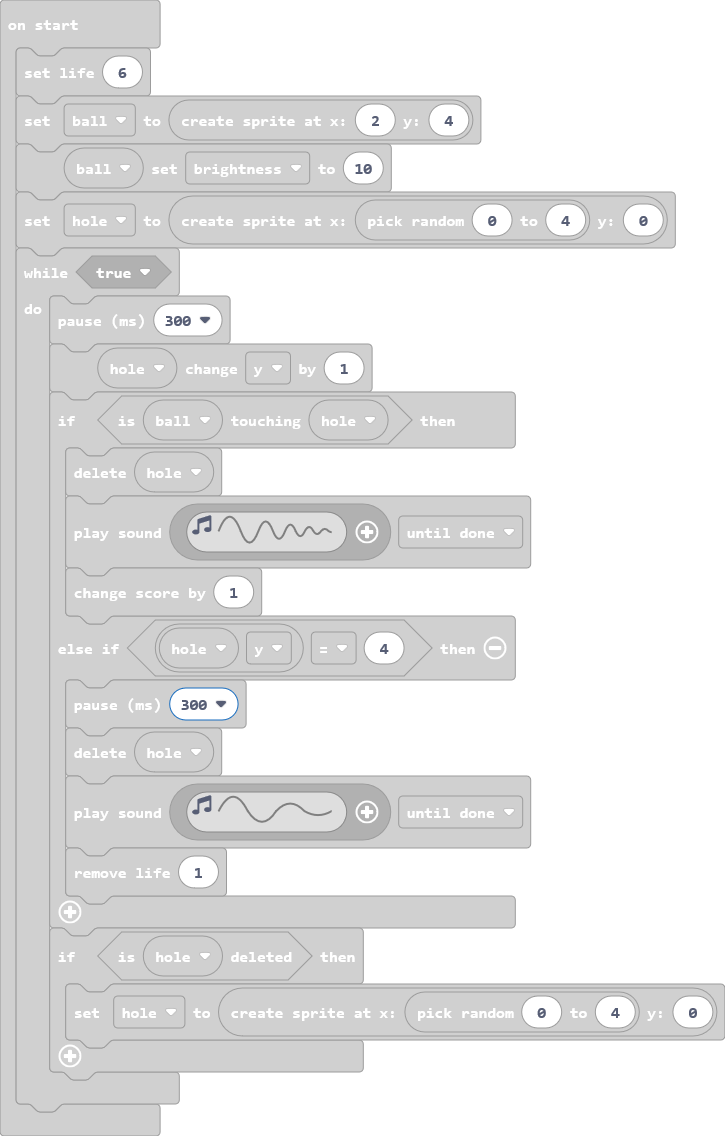
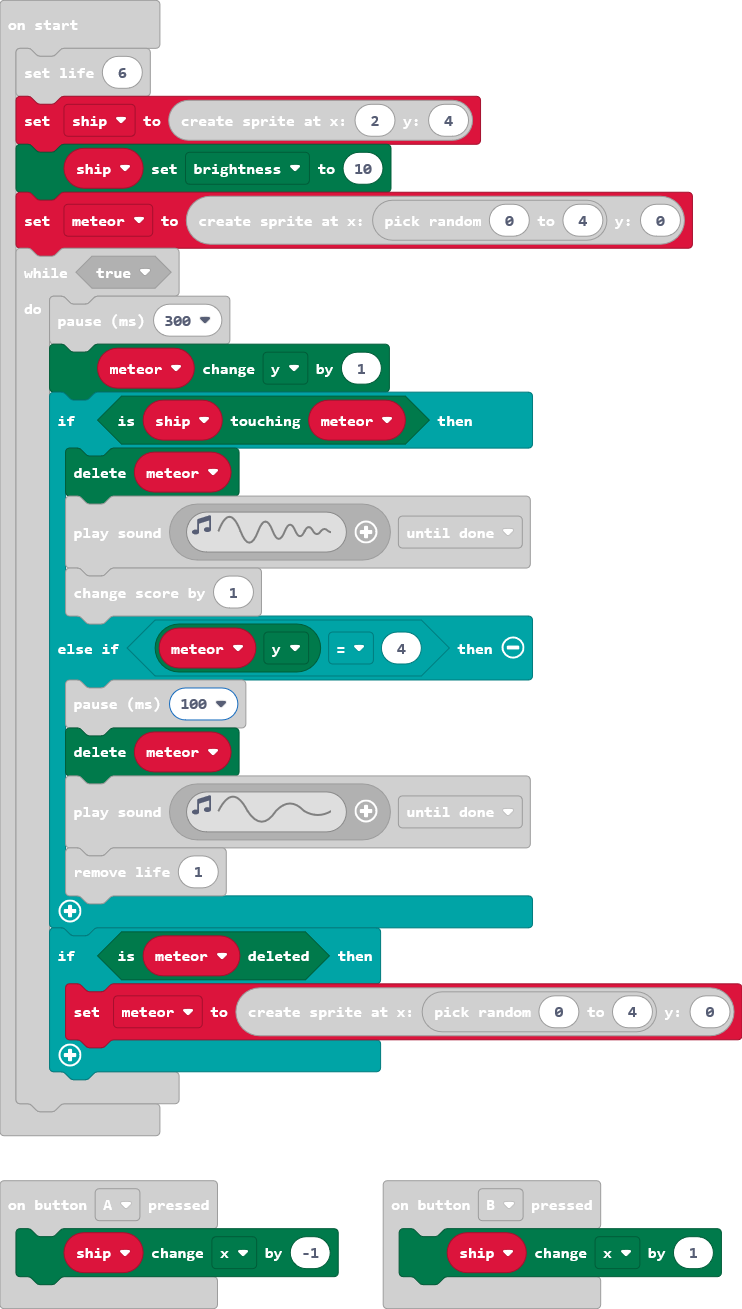
Update main.blocks, main.ts

diff --git a/main.ts b/main.ts
@@ -1,28 +1,28 @@
 input.onButtonPressed(Button.A, function () {
-    ball.change(LedSpriteProperty.X, -1)
+    ship.change(LedSpriteProperty.X, -1)
 })
 input.onButtonPressed(Button.B, function () {
-    ball.change(LedSpriteProperty.X, 1)
+    ship.change(LedSpriteProperty.X, 1)
 })
-let ball: game.LedSprite = null
+let ship: game.LedSprite = null
 game.setLife(6)
-ball = game.createSprite(2, 4)
-ball.set(LedSpriteProperty.Brightness, 10)
-let hole = game.createSprite(randint(0, 4), 0)
+ship = game.createSprite(2, 4)
+ship.set(LedSpriteProperty.Brightness, 10)
+let meteor = game.createSprite(randint(0, 4), 0)
 while (true) {
     basic.pause(300)
-    hole.change(LedSpriteProperty.Y, 1)
-    if (ball.isTouching(hole)) {
-        hole.delete()
+    meteor.change(LedSpriteProperty.Y, 1)
+    if (ship.isTouching(meteor)) {
+        meteor.delete()
         music.playSoundEffect(music.createSoundEffect(WaveShape.Sine, 1600, 4610, 255, 0, 50, SoundExpressionEffect.None, InterpolationCurve.Curve), SoundExpressionPlayMode.UntilDone)
         game.addScore(1)
-    } else if (hole.get(LedSpriteProperty.Y) == 4) {
-        basic.pause(300)
-        hole.delete()
+    } else if (meteor.get(LedSpriteProperty.Y) == 4) {
+        basic.pause(100)
+        meteor.delete()
         music.playSoundEffect(music.createSoundEffect(WaveShape.Sine, 200, 600, 255, 0, 15, SoundExpressionEffect.None, InterpolationCurve.Linear), SoundExpressionPlayMode.UntilDone)
         game.removeLife(1)
     }
-    if (hole.isDeleted()) {
-        hole = game.createSprite(randint(0, 4), 0)
+    if (meteor.isDeleted()) {
+        meteor = game.createSprite(randint(0, 4), 0)
     }
 }
